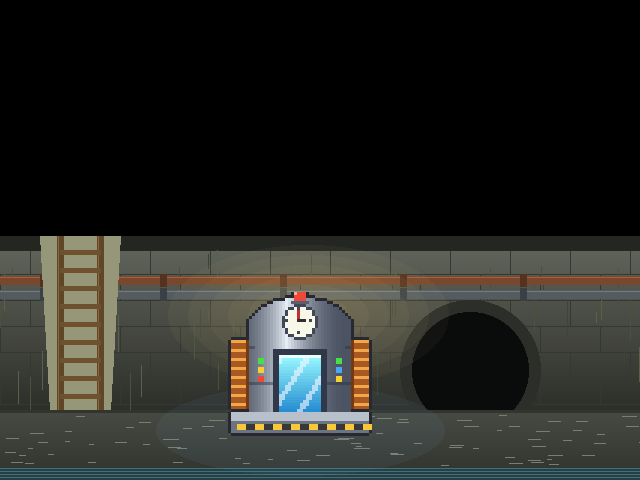
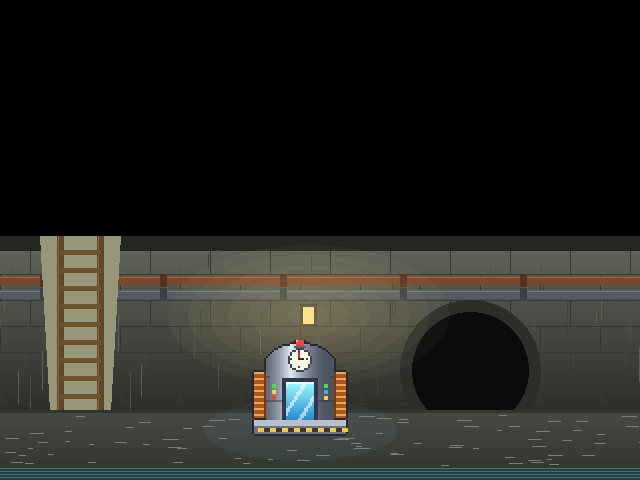
Kamurocho: your party walks behind you, the street's name as you come in, you a little taller, the Time Machine smaller, the backlot left by its passage, gangs that don't spin as they chase you
Claude-Session: https://claude.ai/code/session_01No5GwW2AvnCcQDGrNA3TLc

Changed region(s): [[0.3438, 0.5938, 0.5938, 0.9062]]

diff --git a/ui/street.js b/ui/street.js
@@ -1,7 +1,7 @@
 // Kamurocho, side on, as Streets of Kamurocho draws it (data/kamurocho-street.js; its pictures from the game itself,
 // tools/build-kamurocho-sok.py): you walk along the street and up and down its pavement, a beat-'em-up's way, on a
-// screen of its own (336x224, Streets of Rage 2's height, 3:2 like the game's), and drawn twice your size to stand as
-// tall as its people. The game's overworld (ui/overworld.js) rests meanwhile: ui/game.js's explore loop asks this
+// screen of its own (336x224, Streets of Rage 2's height, 3:2 like the game's), and drawn two and a half times your
+// size to stand as tall as its people, your party walking behind you. The game's overworld (ui/overworld.js) rests meanwhile: ui/game.js's explore loop asks this
 // instead while you're in Kamurocho.
 //
 //   const ev = await Street.explore({ player, look, special, say, visible, onStep, level });
@@ -27,7 +27,8 @@
 // gang's back when you come into the street again. (onStep is told there are no fights to roll for: they're these.)
 (function () {
   "use strict";
-  const W = 336, H = 224, SCALE = 2;
+  // (You're drawn two and a half times your size, to stand as tall as its people.)
+  const W = 336, H = 224, SCALE = 2.5;
   const D = () => window.KAMUROCHO_STREET;
   const canvas = document.createElement("canvas");
   canvas.id = "street"; canvas.className = "world hidden"; canvas.width = W; canvas.height = H;
@@ -76,8 +77,10 @@
   function place(loc) {
     const a = loc && D().scenes[loc.scene] ? loc : D().arrive;
     // (put somewhere else in the same scene: its people and gangs where they are)
-    if (!me || me.scene !== a.scene) { for (const k of Object.keys(walkers)) delete walkers[k]; newScene = true; }
+    const moved = !me || me.scene !== a.scene;
+    if (moved) { for (const k of Object.keys(walkers)) delete walkers[k]; newScene = true; }
     me = { scene: a.scene, x: a.x, y: a.y, facing: a.facing || "down", moving: false };
+    if (moved) { trail = []; if (D().scenes[a.scene]) announce(); }
   }
   let newScene = true;   // (the gangs to be sent for: you've come into a scene)
   function walker(p) {
@@ -131,8 +134,10 @@
       g.restore();
     } });
     for (const gang of gangs) gang.members.forEach((m, k) => list.push({ y: m.y, draw: () => drawFoe(gang, m, k) }));
+    for (const f of followers(opts)) list.push({ y: f.y - 0.1, draw: () => drawFollower(f) });
     list.push({ y: me.y, draw: () => drawMe(opts) });
     list.sort((a, b) => a.y - b.y).forEach((o) => o.draw());
+    drawPopup();
     // (a spot's name, while you stand in it)
     const here = spotAt();
     if (here && here.text) { g.font = "bold 9px 'Trebuchet MS', sans-serif"; g.textAlign = "center"; g.fillStyle = "#000a"; const bw = Math.max(92, Math.ceil(g.measureText(here.text + "  Ⓐ").width) + 14); g.fillRect(W / 2 - bw / 2, 4, bw, 14); g.fillStyle = "#ffe890"; g.fillText(here.text + "  Ⓐ", W / 2, 14); g.textAlign = "left"; }
@@ -159,6 +164,78 @@
     }
     g.textAlign = "left";
   }
+  // ---------- Your party, walking behind you ----------
+  // Those fighting beside you (opts.followers(): Kiryu and Majima as Streets of Kamurocho draws them, at ease, a
+  // Pokémon as its HGSS follower sheet) walk where you walked, each a way behind the one before, facing the way you
+  // went along the street; they stop when you do.
+  const GAP = 46;
+  let trail = [];
+  function remember() {
+    const last = trail[trail.length - 1];
+    if (last && Math.hypot(last.x - me.x, last.y - me.y) < 1) return;
+    trail.push({ x: me.x, y: me.y, dir: me.facing === "left" ? -1 : me.facing === "right" ? 1 : last ? last.dir : 1 });
+    if (trail.length > 600) trail.splice(0, trail.length - 600);
+  }
+  function followers(opts) {
+    const who = (opts && opts.followers && opts.followers()) || [];
+    const out = [];
+    let d = 0;
+    who.forEach((f, k) => {
+      d += GAP;
+      // (the point `d` back along the trail; before the trail's start, behind you on the pavement)
+      let at = null, run = 0;
+      for (let j = trail.length - 1; j > 0; j--) { run += Math.hypot(trail[j].x - trail[j - 1].x, trail[j].y - trail[j - 1].y); if (run >= d) { at = trail[j - 1]; break; } }
+      const back = me.facing === "left" ? 1 : -1;
+      if (!at) at = { x: me.x + back * d, y: me.y, dir: -back };
+      if (!onFloor(at.x, at.y)) at = { x: me.x, y: me.y, dir: at.dir };
+      out.push(Object.assign({}, f, { x: at.x, y: at.y, dir: at.dir, moving: me.moving, k }));
+    });
+    return out;
+  }
+  function drawFollower(f) {
+    const x = Math.round(f.x - cam.x), y = Math.round(f.y - cam.y);
+    if (f.mon) {
+      // (an HGSS follower sheet: FireRed's nine frames, facing left 2, its steps 7 and 8; right is left turned)
+      const i = image("assets/world/sprites/" + f.mon + ".png");
+      if (!ready(i)) return;
+      // (twice its size, a big one's sheet as it is: a head shorter than you, as beside you in the Pokémon realm)
+      const size = i.height, k = size > 32 ? 1 : 2, fr = f.moving ? 7 + (Math.floor(t / 8) % 2) : 2;
+      shadow(x, y, 12);
+      g.save(); g.translate(x, y + 2);
+      if (f.dir > 0) g.scale(-1, 1);
+      g.drawImage(i, fr * size, 0, size, size, -size * k / 2, -size * k, size * k, size * k);
+      g.restore();
+      return;
+    }
+    const i = image("assets/kamurocho/people/" + f.stand + ".png"), wk = f.walk && image("assets/kamurocho/people/" + f.walk + ".png");
+    if (!ready(i)) return;
+    const step = f.moving && ready(wk);
+    shadow(x, y, i.width * 0.4);
+    g.save(); g.translate(x, y);
+    if (f.dir < 0) g.scale(-1, 1);
+    if (step) { const fw = wk.width / FRAMES; g.drawImage(wk, (Math.floor((t * (run ? 2.4 : 1.4) + f.k * 9) / 8) % FRAMES) * fw, 0, fw, wk.height, -Math.round(fw / 2), -wk.height, fw, wk.height); }
+    else g.drawImage(i, -Math.round(i.width / 2), -i.height + (Math.floor(t / 30 + f.k) % 2));
+    g.restore();
+  }
+
+  // ---------- The area's name (FireRed's map name popup, ui/overworld.js's) ----------
+  // Coming into a street, its name hangs down from the top left on a sign for a while, then goes back up.
+  let popup = null;   // { text, t }
+  function drawPopup() {
+    if (!popup) return;
+    popup.t++;
+    const T = popup.t, drop = Math.min(1, T / 12, Math.max(0, (150 - T) / 12));
+    if (T > 150) { popup = null; return; }
+    g.font = "bold 10px 'Trebuchet MS', sans-serif";
+    const w = Math.max(96, Math.ceil(g.measureText(popup.text).width) + 20), h = 20, y = Math.round(-h + (h + 4) * drop);
+    g.fillStyle = "#3a2c20"; g.fillRect(4, y, w, h);
+    g.fillStyle = "#f8ecd0"; g.fillRect(6, y + 2, w - 4, h - 4);
+    g.fillStyle = "#d8c49c"; g.fillRect(6, y + h - 5, w - 4, 2);
+    g.fillStyle = "#c8b080"; g.fillRect(8, y + 4, 2, 2); g.fillRect(w - 2, y + 4, 2, 2);
+    g.fillStyle = "#4a3c2c"; g.textAlign = "center"; g.fillText(popup.text, 4 + w / 2, y + 14); g.textAlign = "left";
+  }
+  const announce = () => { const S = scene(); popup = S && S.title ? { text: S.title, t: 0 } : null; };
+
   function shadow(x, y, rx) { g.fillStyle = "#0006"; g.beginPath(); g.ellipse(x, y, rx, rx * 0.25, 0, 0, Math.PI * 2); g.fill(); }
   function drawMe(opts) {
     const sheet = opts.look && opts.look();
@@ -242,7 +319,7 @@
       }
       if (gang.state === "walk") {
         // (seen: you're near and in front of them, or right by them)
-        if (!quiet && ((Math.sign(ax) === gang.dir && Math.abs(ax) < 150 && Math.abs(ay) < 40) || (Math.abs(ax) < 50 && Math.abs(ay) < 24))) { gang.state = "chase"; gang.t = 0; gang.wait = 0; continue; }
+        if (!quiet && ((Math.sign(ax) === gang.dir && Math.abs(ax) < 150 && Math.abs(ay) < 40) || (Math.abs(ax) < 50 && Math.abs(ay) < 24))) { gang.state = "chase"; gang.t = 0; gang.wait = 0; gang.side = 0; continue; }
         if (gang.wait > 0) { gang.wait--; continue; }
         const nx = gang.x + gang.dir * 0.6;
         if (Math.abs(nx - gang.home) > 220 || !onFloor(nx, gang.y)) { gang.dir = -gang.dir; gang.wait = 50 + Math.floor(Math.random() * 80); continue; }
@@ -251,8 +328,11 @@
       } else {
         // (after you: up to you, side on, an arm's length off; lost, if you get well away)
         if (Math.abs(ax) > 280 || Math.abs(ay) > 90) { gang.state = "walk"; gang.home = gang.x; gang.wait = 60; continue; }
-        gang.dir = ax < 0 ? -1 : 1;
-        const tx = me.x - gang.dir * 40, dx = tx - gang.x, dy = me.y - gang.y;
+        // (the side they come at you from: kept, so they don't spin round as they close in, or pass under or over
+        // you; another only once you're well past them)
+        if (!gang.side || (Math.sign(ax) === gang.side && Math.abs(ax) > 60)) gang.side = ax < 0 ? 1 : -1;
+        gang.dir = -gang.side;
+        const tx = me.x + gang.side * 40, dx = tx - gang.x, dy = me.y - gang.y;
         if ((Math.abs(dx) < 3 || Math.abs(ax) < 46) && Math.abs(dy) < 6) {
           gang.state = "bark"; gang.t = 0; me.facing = gang.dir < 0 ? "right" : "left";
           const B = D().barks || {}; gang.bark = (B[gang.foes[0]] || ["Hey, you! Got a problem?"])[Math.floor(Math.random() * (B[gang.foes[0]] || [0]).length)];
@@ -273,6 +353,8 @@
     for (const k of Object.keys(walkers)) delete walkers[k];
     newScene = true;
     me = { scene: e.to, x: e.x, y: e.y, facing: e.facing || me.facing, moving: false };
+    trail = [];
+    announce();
     held.clear();
   }
   function blocked(x, y, opts) {
@@ -330,6 +412,7 @@
           // (out of a door: walking into it, from the spot before it, the way it's `walk`ed)
           const door = (S.exits || []).find((e) => e.walk === dir && e.spot && me.x >= e.spot[0] && me.x <= e.spot[1] && me.y >= e.spot[2] && me.y <= e.spot[3] && !onFloor(nx, ny));
           if (door) { go(door); continue; }
+          remember();
           if (onFloor(nx, ny) && !blocked(nx, ny, opts)) { me.x = nx; me.y = ny; }
           else if (onFloor(nx, me.y) && !blocked(nx, me.y, opts)) me.x = nx;
           else if (dx) {

diff --git a/ui/game.js b/ui/game.js
@@ -9879,6 +9879,23 @@
     if (realmQuiet > 0) { realmQuiet--; return null; }
     return Math.random() < enc.rate ? { type: "realm-battle" } : null;
   }
+  // Who walks behind you on Kamurocho's streets (ui/street.js): those fighting beside you, standing (Kiryu and Majima
+  // at ease, a Pokémon as its HGSS follower sheet, tools/build-hgss-followers.js).
+  function realmFollowers() {
+    const P = player.flags.realmParty && player.flags.realmParty.yakuza;
+    if (!P) return [];
+    const F = window.JOHTO_FOLLOWERS || { hgss: [] }, me = realmMe(P);
+    return P.party.filter((rec) => rec !== me).map((rec) => {
+      const mon = realmMon(rec);
+      if (mon) {
+        if (mon.hp <= 0) return null;
+        const id = String((window.DEX[mon.species] || {}).id || 0);
+        return F.hgss.includes(id) ? { mon: "follow/" + id } : null;
+      }
+      if (rec.hp <= 0) return null;
+      return rec.id === "kiryu" || rec.id === "majima" ? { stand: rec.id + "_idle", walk: rec.id + "_idle_walk" } : null;
+    }).filter(Boolean);
+  }
   // The party's best level (a Pokémon's or a fighter's): which of the street's gangs come out.
   function realmBestLevel() {
     const P = realmParty((window.WORLD_MAPS[player.location.map] || {}).realm || "yakuza");
@@ -15881,7 +15898,7 @@
   async function exploreStreet() {
     Player.enterRealm(player, "yakuza");
     music((window.WORLD_MAPS.Kamurocho || {}).music);
-    const ev = await Street.explore({ player, look: () => Overworld.playerLook(), special, visible: (p) => visible(p, "Kamurocho"), level: realmBestLevel,
+    const ev = await Street.explore({ player, look: () => Overworld.playerLook(), special, visible: (p) => visible(p, "Kamurocho"), level: realmBestLevel, followers: realmFollowers,
       onStep: (fights) => { Player.advanceClock(player); return fights ? realmStreetStep() : saveReminderStep(); } });
     if (ev.type === "menu") {
       await startMenu();

diff --git a/data/kamurocho-street.js b/data/kamurocho-street.js
@@ -106,12 +106,13 @@ window.KAMUROCHO_STREET = {
       exits: [{ spot: [20, 98, 414, 424], walk: "up", to: "street", x: 720, y: 172, facing: "down", text: "Door" }],
       spots: [{ x0: 548, x1: 790, y0: 414, y1: 470, script: "Kamurocho_Clerk", text: "Clerk" }]
     },
-    // (Serena's backlot, behind the bar, this game's own (tools/build-kamurocho-insides.py): out the way you came, off
-    // its left, up the passage to the street; and its manhole cover, the way down to the Time Machine.)
+    // (Serena's backlot, behind the bar, this game's own (tools/build-kamurocho-insides.py): out the way you came, up
+    // the passage at its left to the street; and its manhole cover, the way down to the Time Machine.)
     backlot: {
       title: "Serena's Backlot", image: "assets/kamurocho/backlot.png", width: 640,
       floor: [[0, 414], [640, 414], [640, 470], [0, 470]],
-      exits: [{ edge: "left", to: "street", x: 544, y: 172, facing: "down" },
+      // (out up the lit passage at its left, as into Poppo's door: walk up into it, or press A before it)
+      exits: [{ spot: [8, 68, 414, 424], walk: "up", to: "street", x: 544, y: 172, facing: "down", text: "To the street" },
         { spot: [394, 450, 436, 466], to: "sewer", x: 90, y: 440, facing: "right", text: "Manhole" }],
       things: [{ image: "assets/kamurocho/manhole.png", x: 422, y: 458, scale: 1, floor: true }]
     },

diff --git a/tools/build-kamurocho-insides.py b/tools/build-kamurocho-insides.py
@@ -14,7 +14,7 @@
 # ui/street.js from manhole.png).
 #
 # Under the manhole in Serena's backlot: a storm drain's chamber, the ladder down at its left, a culvert behind, and
-# the Time Machine (time-machine.png, three times over) standing on its floor; and the manhole cover itself, for
+# the Time Machine (time-machine.png, twice over) standing on its floor; and the manhole cover itself, for
 # the backlot's asphalt.
 #
 #   python3 tools/build-kamurocho-insides.py
@@ -277,11 +277,11 @@ def sewer():
     for _ in range(80):
         x = rnd.randrange(SEWER_W); y = rnd.randrange(floor + 4, H - 14)
         d.line((x, y, x + rnd.randrange(4, 16), y), fill=(120, 126, 112))
-    # The Time Machine, on the floor beyond the ladder, three times over.
+    # The Time Machine, on the floor beyond the ladder, twice over (a head taller than you are on the street).
     tm = Image.open(os.path.join(K, 'time-machine.png')).convert('RGBA')
-    tm = tm.resize((tm.width * 3, tm.height * 3), Image.NEAREST)
+    tm = tm.resize((tm.width * 2, tm.height * 2), Image.NEAREST)
     glow = Image.new('RGBA', im.size, (0, 0, 0, 0)); gd = ImageDraw.Draw(glow)
-    for r in range(90, 0, -15): gd.ellipse((300 - r * 1.6, floor + 20 - r * 0.5, 300 + r * 1.6, floor + 20 + r * 0.5), fill=(120, 200, 255, 14))
+    for r in range(60, 0, -10): gd.ellipse((300 - r * 1.6, floor + 20 - r * 0.5, 300 + r * 1.6, floor + 20 + r * 0.5), fill=(120, 200, 255, 14))
     im.alpha_composite(glow)
     im.alpha_composite(tm, (300 - tm.width // 2, floor + 26 - tm.height))
     im.convert('RGB').save(os.path.join(K, 'sewer.png'), optimize=True)

diff --git a/tools/build-kamurocho-sok.py b/tools/build-kamurocho-sok.py
@@ -81,7 +81,9 @@ FOE_WALKS = {
 # legs: their breath, their spear's sway, the host's cigarette): theirs are made from their standing frame, its
 # legs below the hip sheared apart and together about the crotch a stride at a time, the lifting foot raised, the
 # body bobbing down on the strides. (frame, the hip's row, the crotch's column, the stride))
-SYNTH_WALKS = {'knife': ((15, 2797, 1065, 88, 81), 50, 46, 6), 'host': ((15, 2741, 472, 35, 82), 46, 17, 4)}
+# (And Kiryu and Majima at ease, to walk behind you as your party: their standing frames, the same way.)
+SYNTH_WALKS = {'knife': ((15, 2797, 1065, 88, 81), 50, 46, 6), 'host': ((15, 2741, 472, 35, 82), 46, 17, 4),
+               'kiryu_idle': ((15, 4064, 1952, 30, 82), 46, 15, 4), 'majima_idle': ((15, 1722, 156, 28, 84), 48, 14, 4)}
 
 def stride(im, hip, split, d):
     W, H = im.width + 2 * d + 4, im.height + 2
@@ -102,7 +104,7 @@ def stride(im, hip, split, d):
     return out
 
 # (Those whose frames face left in the atlas: turned round, so all of them face right.)
-FACING_LEFT = {'kiryu_idle', 'majima_idle', 'host_idle', 'loiterer', 'drunk_idle', 'drunk_walk'}
+FACING_LEFT = {'kiryu_idle', 'majima_idle', 'host_idle', 'loiterer', 'drunk_idle', 'drunk_walk', 'kiryu_idle_walk', 'majima_idle_walk'}
 
 def strip(atlas, pid, rects, ims=None):
     # (each frame trimmed to itself, turned to face right, and set in a frame of one width: its head (the middle of

diff --git a/README.md b/README.md
@@ -3660,10 +3660,13 @@ balls here (bring them along at the Time Machine to fight), and there are no wil
   and the storm drain drawn in the street's colours by `tools/build-kamurocho-insides.py` (Poppo's sign off its
   shopfront, its shelves, drinks fridge and counter, its clerk, a man at ease in Poppo's blue uniform; the backlot's
   green tiles, back door, crates, bin bags and fence; the drain's wet concrete, pipes, culvert and ladder, and the
-  Time Machine three times over), and the streets put together by `tools/build-kamurocho-streets.py` out of Streets
+  Time Machine twice over, a head taller than you), and the streets put together by `tools/build-kamurocho-streets.py` out of Streets
   of Kamurocho's own pieces (given the game's folder): the street's shopfronts and pavement, the alley's back doors,
   its title screen's Tenkaichi gate and neon, its atlas's lamp posts, bicycles, signboards and overhead wires, and
-  its own letters for the new signs, recoloured and relit. You're drawn twice your size, to stand as tall as its people. Walk off a
+  its own letters for the new signs, recoloured and relit. You're drawn two and a half times your size, to stand as tall as its people, and those fighting beside you walk
+  where you walked, one behind the other (Kiryu and Majima at ease, their walks made from their standing frames by
+  `tools/build-kamurocho-sok.py`'s `SYNTH_WALKS`; a Pokémon as its HGSS follower sheet). Coming into a street, its
+  name hangs down from the top left on a sign for a while, as FireRed's area names do. Walk off a
   street's end into the next (the street's left end is Nakamichi Street's right, its right the alley; Tenkaichi
   runs from Taihei's gate to Theater Square, Pink Street from Taihei's end to Nakamichi, the Champion District from
   Pink Street to the square, Showa Street off Taihei's west end, Senryo Avenue to the Hotel District to Shichifuku
@@ -3671,7 +3674,7 @@ balls here (bring them along at the Time Machine to fight), and there are no wil
   Nakamichi, the way into Pink Street or the Champion District, Showa's passage to Nakamichi Alley, Pink Street's and
   Senryo's ways into Pink Alley, the Kamuro Theater's arcade to Theater Alley or Shichifuku Street and Shichifuku's
   lane back to the square), at Bacchus's, Poppo's or Serena's door and press A to go in (out of Bacchus,
-  walk off its left; out of Poppo, walk up into its glass door; out of the backlot, off its left); in Poppo, stand
+  walk off its left; out of Poppo, walk up into its glass door; out of the backlot, walk up the lit passage at its left); in Poppo, stand
   at the counter and press A to talk to the clerk and buy; on the backlot's manhole, A climbs down (the ladder, A,
   back up); the Time Machine's spot, A, is its menu. The floor you can walk on is each scene's polygon (along the
   slope, you go up or down it as you walk). Its people stand about at ease or walk up and down the pavement, each
@@ -3695,7 +3698,7 @@ balls here (bring them along at the Time Machine to fight), and there are no wil
   over the street behind you.
 - **The gangs**: no fights out of nowhere. As in the Yakuza games, gangs (`REALM_ENCOUNTERS.Kamurocho`'s groups, the
   harder ones as your party's level comes to them) walk the streets in plain sight; one that spots you in front of
-  it shows a "!" and comes for you, its leader says his line (`KAMUROCHO_STREET.barks`) and the fight's that gang.
+  it shows a "!" and comes for you (from the side it set out from, facing you, not turning round as it closes in), its leader says his line (`KAMUROCHO_STREET.barks`) and the fight's that gang.
   Run and it gives up; beaten, it's gone, and another comes along in a while. None in the alley, the bars, the
   shops, the backlot, the storm drain or the Champion District.
 - **The pictures** (`assets/kamurocho/`, committed, so nothing needs the game): `tools/build-kamurocho-sok.py` takes
